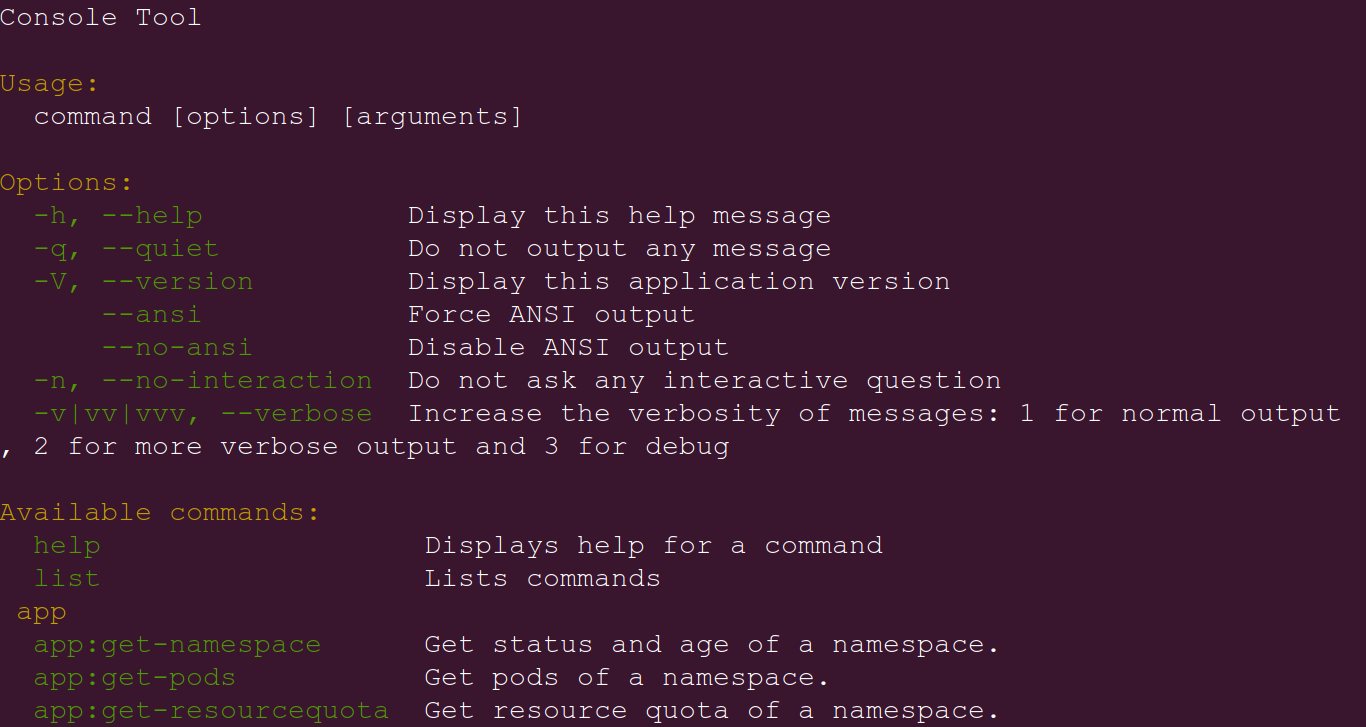
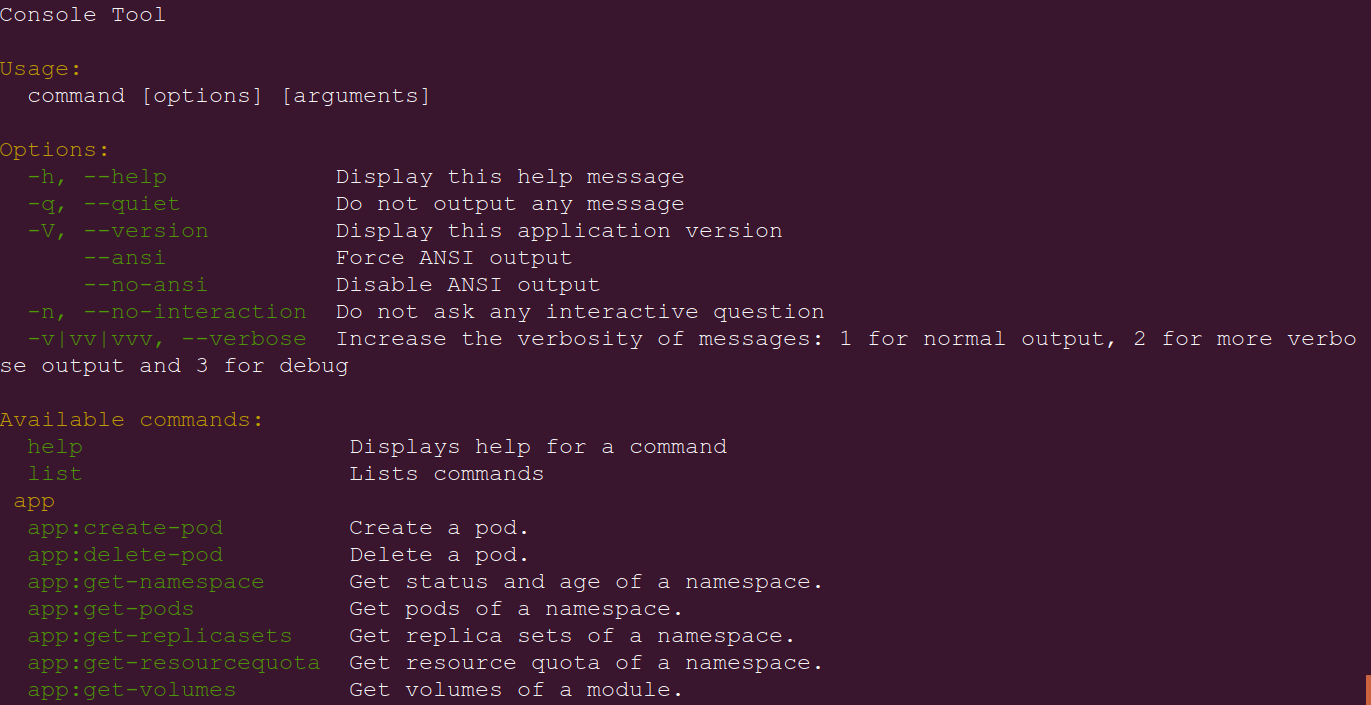
Create commands to get volumes, and replica sets and to create and delete pods #6

diff --git a/src/Command/CreatePodCommand.php b/src/Command/CreatePodCommand.php
@@ -10,43 +10,37 @@ use Symfony\Component\Console\Command\Command;
 use Symfony\Component\Console\Input\InputInterface;
 use Symfony\Component\Console\Output\OutputInterface;
 use Symfony\Component\Console\Input\InputArgument;
-use Fgsl\Kubectl\KubectlProxy;
-use Symfony\Component\Console\Input\InputOption;
+use Fgsl\Kubectl\KubernetesPods;
 use App\Helper\Timer;
 
-class GetNamespaceCommand extends Command
+class CreatePodCommand extends Command
 {
 
     // the name of the command (the part after "bin/console")
-    protected static $defaultName = 'app:get-namespace';
+    protected static $defaultName = 'app:create-pod';
 
     protected function configure()
     {
         $this->
         // the short description shown while running "php bin/console list"
-        setDescription('Get status and age of a namespace.')
+        setDescription('Create a pod.')
             ->
         // the full command description shown when running the command with
         // the "--help" option
-        setHelp('This command allows you to get the status and age of a namespace')
+        setHelp('This command allows you to create a pod.')
             ->
         // configure an argument
-        addArgument('namespace', InputArgument::REQUIRED, 'The namespace of cluster.')
-            ->
-        // configure an option
-        addOption('object', 'o|O', InputOption::VALUE_NONE, 'all object attributes')
-            ->addOption('labels', 'l|L', InputOption::VALUE_NONE, 'only labels')
-            ->addOption('annotations', 'a|A', InputOption::VALUE_NONE, 'only annotations');
+        addArgument('yaml-file', InputArgument::REQUIRED, 'Name of a yaml file.');
     }
 
     protected function execute(InputInterface $input, OutputInterface $output)
     {
         try {
-            $object = (boolean) $input->getOption('object') || (boolean) $input->getOption('labels') || (boolean) $input->getOption('annotations');
+            $yaml = file_get_contents($input->getArgument('yaml-file'));
             Timer::start();
-            $kn = KubectlProxy::getNamespace($input->getArgument('namespace'), $object);
+            $response = KubernetesPods::create($yaml);
             $time = Timer::stop();
-            $output->writeln($input->getOption('labels') ? $kn->getLabels() : ($input->getOption('annotations') ? $kn->getAnnotations() : $kn));
+            $output->writeln($response);
             $output->writeln("Elapsed time: {$time}s");
         } catch (\Exception $e) {
             $output->writeln($e->getMessage());

diff --git a/src/Command/DeletePodCommand.php b/src/Command/DeletePodCommand.php
@@ -10,43 +10,37 @@ use Symfony\Component\Console\Command\Command;
 use Symfony\Component\Console\Input\InputInterface;
 use Symfony\Component\Console\Output\OutputInterface;
 use Symfony\Component\Console\Input\InputArgument;
-use Fgsl\Kubectl\KubectlProxy;
-use Symfony\Component\Console\Input\InputOption;
+use Fgsl\Kubectl\KubernetesPods;
 use App\Helper\Timer;
 
-class GetNamespaceCommand extends Command
+class DeletePodCommand extends Command
 {
 
     // the name of the command (the part after "bin/console")
-    protected static $defaultName = 'app:get-namespace';
+    protected static $defaultName = 'app:delete-pod';
 
     protected function configure()
     {
         $this->
         // the short description shown while running "php bin/console list"
-        setDescription('Get status and age of a namespace.')
+        setDescription('Delete a pod.')
             ->
         // the full command description shown when running the command with
         // the "--help" option
-        setHelp('This command allows you to get the status and age of a namespace')
+        setHelp('This command allows you to delete a pod.')
             ->
         // configure an argument
         addArgument('namespace', InputArgument::REQUIRED, 'The namespace of cluster.')
-            ->
-        // configure an option
-        addOption('object', 'o|O', InputOption::VALUE_NONE, 'all object attributes')
-            ->addOption('labels', 'l|L', InputOption::VALUE_NONE, 'only labels')
-            ->addOption('annotations', 'a|A', InputOption::VALUE_NONE, 'only annotations');
+        ->addArgument('module', InputArgument::REQUIRED, 'The module of namespace.');
     }
 
     protected function execute(InputInterface $input, OutputInterface $output)
     {
         try {
-            $object = (boolean) $input->getOption('object') || (boolean) $input->getOption('labels') || (boolean) $input->getOption('annotations');
             Timer::start();
-            $kn = KubectlProxy::getNamespace($input->getArgument('namespace'), $object);
+            $response = KubernetesPods::delete($input->getArgument('namespace'), $input->getArgument('module'));
             $time = Timer::stop();
-            $output->writeln($input->getOption('labels') ? $kn->getLabels() : ($input->getOption('annotations') ? $kn->getAnnotations() : $kn));
+            $output->writeln($response);
             $output->writeln("Elapsed time: {$time}s");
         } catch (\Exception $e) {
             $output->writeln($e->getMessage());

diff --git a/src/Command/GetReplicaSetsCommand.php b/src/Command/GetReplicaSetsCommand.php
@@ -14,39 +14,39 @@ use Fgsl\Kubectl\KubectlProxy;
 use Symfony\Component\Console\Input\InputOption;
 use App\Helper\Timer;
 
-class GetNamespaceCommand extends Command
+class GetReplicaSetsCommand extends Command
 {
 
     // the name of the command (the part after "bin/console")
-    protected static $defaultName = 'app:get-namespace';
+    protected static $defaultName = 'app:get-replicasets';
 
     protected function configure()
     {
         $this->
         // the short description shown while running "php bin/console list"
-        setDescription('Get status and age of a namespace.')
+        setDescription('Get replica sets of a namespace.')
             ->
         // the full command description shown when running the command with
         // the "--help" option
-        setHelp('This command allows you to get the status and age of a namespace')
+        setHelp('This command allows you to get replica sets of a namespace.')
             ->
         // configure an argument
         addArgument('namespace', InputArgument::REQUIRED, 'The namespace of cluster.')
             ->
         // configure an option
         addOption('object', 'o|O', InputOption::VALUE_NONE, 'all object attributes')
-            ->addOption('labels', 'l|L', InputOption::VALUE_NONE, 'only labels')
-            ->addOption('annotations', 'a|A', InputOption::VALUE_NONE, 'only annotations');
+            ->addOption('labels', 'l|L', InputOption::VALUE_NONE, 'show labels');
     }
 
     protected function execute(InputInterface $input, OutputInterface $output)
     {
         try {
-            $object = (boolean) $input->getOption('object') || (boolean) $input->getOption('labels') || (boolean) $input->getOption('annotations');
+            $object = (boolean) $input->getOption('object');
+            $showLabels = (boolean) $input->getOption('labels');
             Timer::start();
-            $kn = KubectlProxy::getNamespace($input->getArgument('namespace'), $object);
+            $kn = KubectlProxy::getReplicaSets($input->getArgument('namespace'), $object, $showLabels);
             $time = Timer::stop();
-            $output->writeln($input->getOption('labels') ? $kn->getLabels() : ($input->getOption('annotations') ? $kn->getAnnotations() : $kn));
+            $output->writeln($kn);
             $output->writeln("Elapsed time: {$time}s");
         } catch (\Exception $e) {
             $output->writeln($e->getMessage());

diff --git a/src/Command/GetVolumesCommand.php b/src/Command/GetVolumesCommand.php
@@ -14,39 +14,37 @@ use Fgsl\Kubectl\KubectlProxy;
 use Symfony\Component\Console\Input\InputOption;
 use App\Helper\Timer;
 
-class GetNamespaceCommand extends Command
+class GetVolumesCommand extends Command
 {
 
     // the name of the command (the part after "bin/console")
-    protected static $defaultName = 'app:get-namespace';
+    protected static $defaultName = 'app:get-volumes';
 
     protected function configure()
     {
         $this->
         // the short description shown while running "php bin/console list"
-        setDescription('Get status and age of a namespace.')
+        setDescription('Get volumes of a module.')
             ->
         // the full command description shown when running the command with
         // the "--help" option
-        setHelp('This command allows you to get the status and age of a namespace')
+        setHelp('This command allows you to get volumes of a module.')
             ->
         // configure an argument
-        addArgument('namespace', InputArgument::REQUIRED, 'The namespace of cluster.')
+        addArgument('module', InputArgument::REQUIRED, 'The module of a namespace.')
             ->
         // configure an option
-        addOption('object', 'o|O', InputOption::VALUE_NONE, 'all object attributes')
-            ->addOption('labels', 'l|L', InputOption::VALUE_NONE, 'only labels')
-            ->addOption('annotations', 'a|A', InputOption::VALUE_NONE, 'only annotations');
+        addOption('object', 'o|O', InputOption::VALUE_NONE, 'all object attributes');
     }
 
     protected function execute(InputInterface $input, OutputInterface $output)
     {
         try {
-            $object = (boolean) $input->getOption('object') || (boolean) $input->getOption('labels') || (boolean) $input->getOption('annotations');
+            $object = (boolean) $input->getOption('object');
             Timer::start();
-            $kn = KubectlProxy::getNamespace($input->getArgument('namespace'), $object);
+            $kn = KubectlProxy::getVolumes($input->getArgument('module'), $object);
             $time = Timer::stop();
-            $output->writeln($input->getOption('labels') ? $kn->getLabels() : ($input->getOption('annotations') ? $kn->getAnnotations() : $kn));
+            $output->writeln($kn);
             $output->writeln("Elapsed time: {$time}s");
         } catch (\Exception $e) {
             $output->writeln($e->getMessage());

diff --git a/src/Command/GetPodsCommand.php b/src/Command/GetPodsCommand.php
@@ -12,6 +12,7 @@ use Symfony\Component\Console\Output\OutputInterface;
 use Symfony\Component\Console\Input\InputArgument;
 use Fgsl\Kubectl\KubectlProxy;
 use Symfony\Component\Console\Input\InputOption;
+use App\Helper\Timer;
 
 class GetPodsCommand extends Command
 {
@@ -42,8 +43,11 @@ class GetPodsCommand extends Command
         try {
             $object = (boolean) $input->getOption('object');
             $showLabels = (boolean) $input->getOption('labels');
+            Timer::start();
             $kn = KubectlProxy::getPods($input->getArgument('namespace'), $object, $showLabels);
+            $time = Timer::stop();
             $output->writeln($kn);
+            $output->writeln("Elapsed time: {$time}s");
         } catch (\Exception $e) {
             $output->writeln($e->getMessage());
         }

diff --git a/pkc.php b/pkc.php
@@ -12,6 +12,10 @@ use App\Command\GetNamespaceCommand;
 use Fgsl\Kubectl\KubectlProxy;
 use App\Command\GetResourceQuotaCommand;
 use App\Command\GetPodsCommand;
+use App\Command\GetVolumesCommand;
+use App\Command\GetReplicaSetsCommand;
+use App\Command\CreatePodCommand;
+use App\Command\DeletePodCommand;
 
 // checks if kubectl is installed
 if (!KubectlProxy::isInstalled()){
@@ -23,4 +27,8 @@ $application = new Application();
 $application->add(new GetNamespaceCommand());
 $application->add(new GetResourceQuotaCommand());
 $application->add(new GetPodsCommand());
+$application->add(new GetVolumesCommand());
+$application->add(new GetReplicaSetsCommand());
+$application->add(new CreatePodCommand());
+$application->add(new DeletePodCommand());
 $application->run();

diff --git a/src/Command/GetResourceQuotaCommand.php b/src/Command/GetResourceQuotaCommand.php
@@ -12,6 +12,7 @@ use Symfony\Component\Console\Output\OutputInterface;
 use Symfony\Component\Console\Input\InputArgument;
 use Fgsl\Kubectl\KubectlProxy;
 use Symfony\Component\Console\Input\InputOption;
+use App\Helper\Timer;
 
 class GetResourceQuotaCommand extends Command
 {
@@ -40,8 +41,11 @@ class GetResourceQuotaCommand extends Command
     {
         try {
             $object = (boolean) $input->getOption('object');
+            Timer::start();
             $kn = KubectlProxy::getResourceQuota($input->getArgument('namespace'), $object);
+            $time = Timer::stop();
             $output->writeln($kn);
+            $output->writeln("Elapsed time: {$time}s");
         } catch (\Exception $e) {
             $output->writeln($e->getMessage());
         }

diff --git a/src/Helper/Timer.php b/src/Helper/Timer.php
@@ -1,0 +1,23 @@
+<?php
+/**
+ * PHP Kubectl terminal console
+ * @author Flávio Gomes da Silva Lisboa <flavio.lisboa@fgsl.eti.br>
+ * @license https://www.gnu.org/licenses/lgpl-3.0.en.html
+ */
+namespace App\Helper;
+
+class Timer
+{
+    private static $startTime;
+    
+    public static function start(): void
+    {
+        self::$startTime = microtime(true);
+    }
+    
+    public static function stop(int $precision = 2): float
+    {
+        return round(microtime(true) - self::$startTime, $precision);
+    }    
+}
+

diff --git a/README.md b/README.md
@@ -36,6 +36,14 @@ You can create a .BAT file that contains this call.
 
 *samplenamespace* is the variable argument that you must provide, a Kubernetes valid namespace.
 
+All output shows elapsed time like:
+
+```bash
+Elapsed time: 0.35s
+```
+
+but this footer part is not mentioned in samples below.
+
 ### app:get-namespace
 
 **Input:**
@@ -77,6 +85,71 @@ pod=podsample1 ready=1/1 status=Running restarts=0 age=6d11h
 pod=podsample2 ready=1/1 status=Running restarts=0 age=6d11h
 pod=podsample3 ready=1/1 status=Running restarts=0 age=6d11h
 ```
+
+### app:get-replicasets
+
+**Input:**
+
+```bash
+pkc.phar app:get-replicasets samplenamespace
+```
+**Output:**
+
+```bash
+Namespace samplenamespace
+name=backend1 desired=0 current=0 ready=0 age=16d
+name=backend2 desired=2 current=2 ready=2 age=15d
+name=frontend1 desired=0 current=0 ready=0 age=15d
+name=frontend2 desired=1 current=1 ready=1 age=13d
+name=nginx-sample1 desired=1 current=0 ready=0 age=12d
+name=nginx-sample2 desired=1 current=0 ready=0 age=12d
+name=nginx-sample3 desired=1 current=0 ready=0 age=12d
+name=nginx-sample4 desired=1 current=0 ready=0 age=12d
+name=nginx-sample5 desired=1 current=0 ready=0 age=12d
+name=teste-sample desired=1 current=1 ready=0 age=5h44m
+```
+
+### app:get-volumes
+
+**Input:**
+
+```bash
+pkc.phar app:get-volumes samplemodule
+```
+**Output:**
+
+```bash
+Module samplemodule
+pod=backend-sample1 ready=1/1 status=Running restarts=0 age=10d
+pod=backend-sample2 ready=1/1 status=Running restarts=0 age=10d
+```
+
+### app:create-pod
+
+**Input:**
+
+```bash
+pkc.phar app:create-pod path-to-yaml-file
+```
+**Output:**
+
+```bash
+pod/nginx-sample created
+```
+
+### app:delete-pod
+
+**Input:**
+
+```bash
+pkc.phar app:delete-pod samplenamespace samplemmodule
+```
+**Output:**
+
+```bash
+pod "nginx-sample" deleted
+
+```
   
 ## Build
 
@@ -107,3 +180,20 @@ Finally, change **phar.readonly** to **On** **[DON'T FORGET IT]**
 **pkc.phar app:get-pods**
 
 ![pkc.phar](images/pkc04.png)
+
+**pkc.phar app:get-replicasets**
+
+![pkc.phar](images/pkc05.png)
+
+**pkc.phar app:get-volumes**
+
+![pkc.phar](images/pkc06.png)
+
+**pkc.phar app:create-pod**
+
+![pkc.phar](images/pkc07.png)
+
+**pkc.phar app:delete-pod**
+
+![pkc.phar](images/pkc08.png)
+
